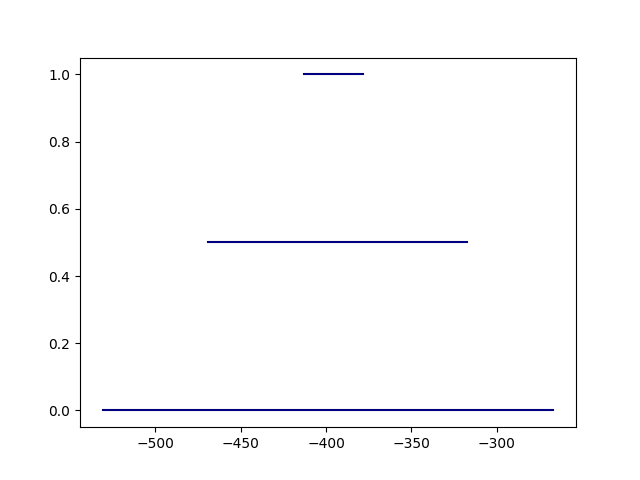
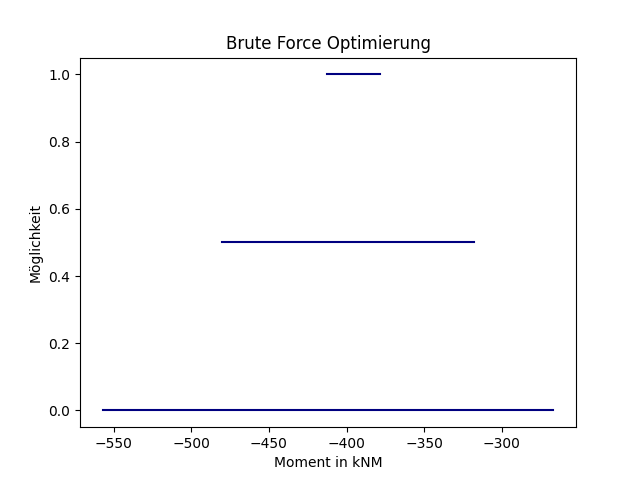
Verbesserung Plot und hinzufügen eines Grundlösungsaufruf tracker für brutloesung

diff --git a/main.py b/main.py
@@ -26,16 +26,20 @@ print('program has started')
 startTime_bruteforce = time.time()
 
 # Anzahl der Schritte pro Intervall:
-n = 1
+n = 2
 
 # Initiierung Algorithmus über alle alpha level in der Schleife: (0, 0.5, 1)
+tracker_brut = 0
 for alpha in [0.0, 0.5, 1.0]:
-    M_max, M_min = bruteforce(L, b, h1, h2, E, q, k, n, alpha)
+    tracker_temp = 0
+    M_max, M_min, tracker_temp = bruteforce(L, b, h1, h2, E, q, k, n, alpha)
 
     # Kontrolle der einzelnen errechneten Intervalle in der Konsolenausgabe
     print("-------------------------------------------------------")
     print('M_max =', M_max)
     print('M_min =', M_min)
+
+    tracker_brut = tracker_brut + tracker_temp
 
     # Erstellung Plot des jeweiligen alpha-lvl Intervalls
     x_coordinates = [M_min, M_max]
@@ -49,9 +53,13 @@ elapsed_time_bruteforce = endTime_bruteforce - startTime_bruteforce
 # Ausgabe der benötigten Zeit
 print("---------------------------------------------------------------")
 print('benötigte Zeit:', elapsed_time_bruteforce)
+print('benötigte Aufrufe Grundloesung:', tracker_brut)
 
 # Ausgabe Plot
 #plt.show()
+plt.title("Brute Force Optimierung")
+plt.xlabel("Moment in kNM")
+plt.ylabel("Möglichkeit")
 plt.savefig("plot_BruteForce.png")
 
 
@@ -59,15 +67,18 @@ plt.savefig("plot_BruteForce.png")
 startTime_genetic = time.time()
 M_max_array = np.zeros((7, 5))
 i = 0
+
 for n_gen in (1, 3, 5, 10, 20, 50, 100):
     for j in range(5):
         for alpha in [0.0]:
             M_max = genetic_algorithm(L, b, h1, h2, E, q, k, alpha, n_gen)
-            print('M_max Evolutioniert zuuuuuuu:', M_max)
-            #print('M_min digitiert zuuuuuuu:', M_min)
+
+            print('M_max Evolutioniert zu:', M_max)
+            #print('M_min digitiert zu:', M_min)
             print('----------------')
             M_max_array[i, j] = M_max
     i= i +1
+
 print(M_max_array)
     # Erstellung Plot des jeweiligen alpha-lvl Intervalls
     #x_coordinates = [M_min, M_max]

diff --git a/bruteforce.py b/bruteforce.py
@@ -3,6 +3,8 @@ from scipy.integrate import quad
 
 
 def bruteforce(L, b, h1, h2, E, q, k, n, alpha):
+    #Tracker Grundloesungsaufrufe
+    tracker_brut = 0
     M_max = - np.inf
     M_min = + np.inf
     # Folgend: Schleifen über h1, h2, E, q und k
@@ -35,6 +37,7 @@ def bruteforce(L, b, h1, h2, E, q, k, n, alpha):
                     k_temp = kl
                     while k_temp <= kr:
                         M = grundloesung(L, b, h1_temp, h2_temp, E_temp, q_temp, k_temp)
+                        tracker_brut += 1
                         if M < M_min:
                             M_min = M
                         if M > M_max:
@@ -44,4 +47,4 @@ def bruteforce(L, b, h1, h2, E, q, k, n, alpha):
                 E_temp = E_temp + Es
             h2_temp = h2_temp + h2s
         h1_temp = h1_temp + h1s
-    return M_max, M_min
+    return M_max, M_min, tracker_brut
